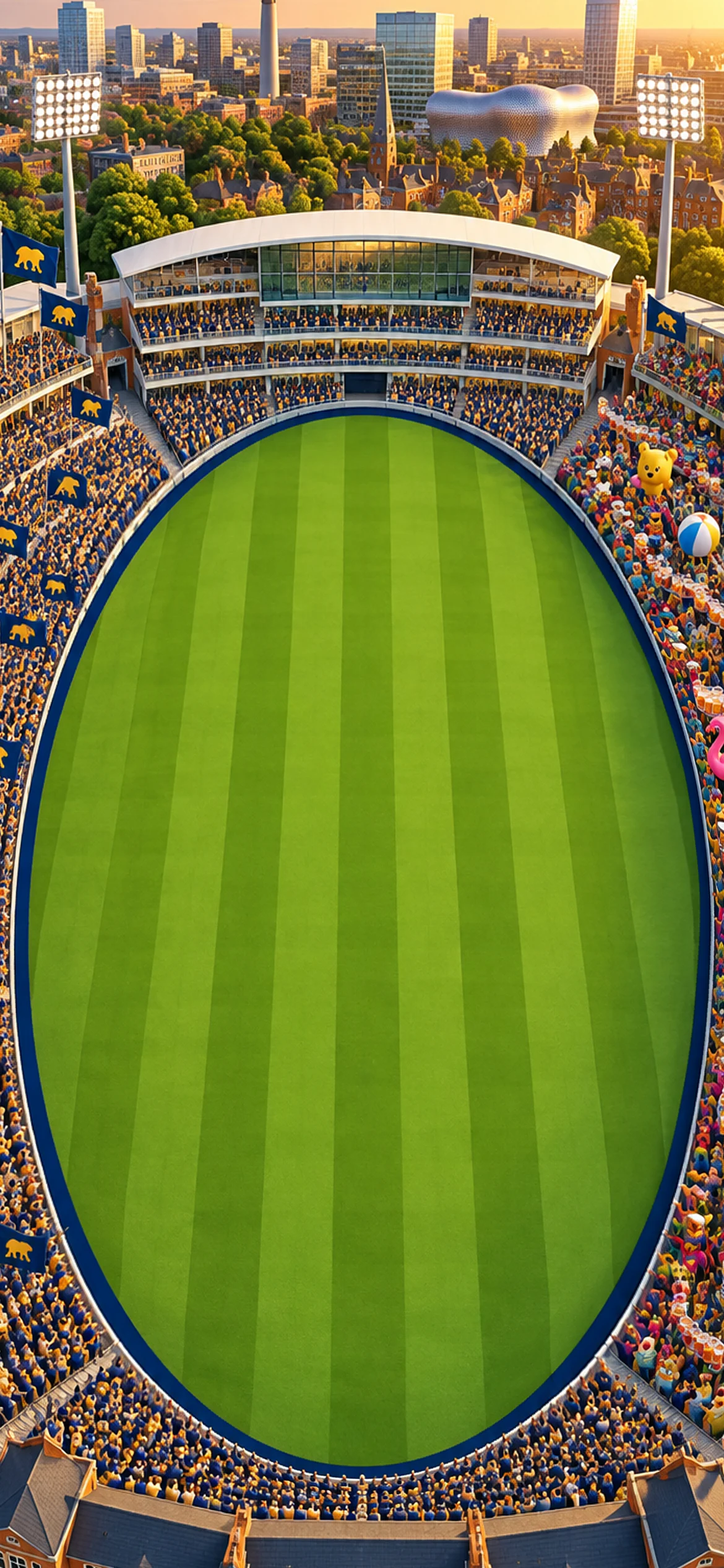
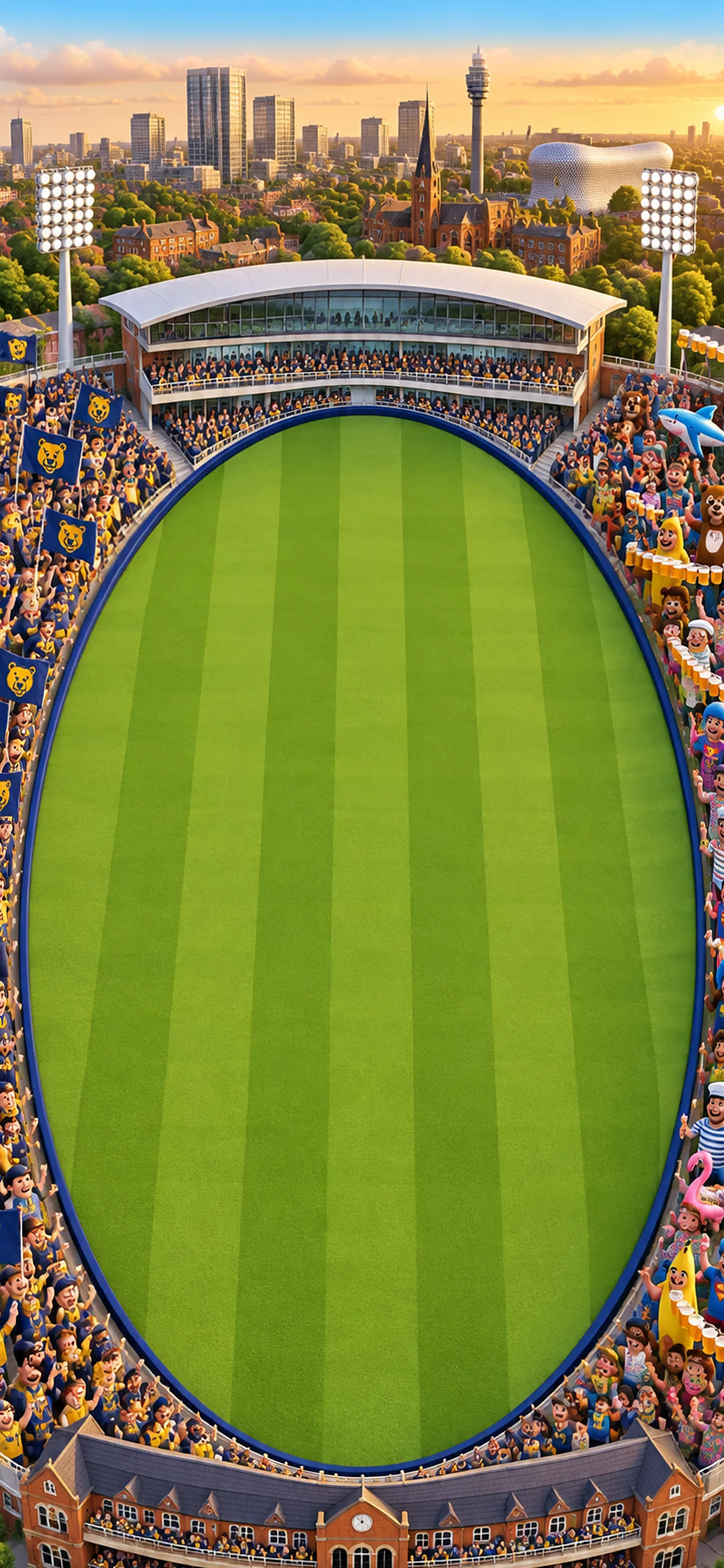
Edgbaston: new plate with matching crowd size both sides
Claude-Session: https://claude.ai/code/session_01EnXvJ6P6HcGRxjBSnYPdAU

diff --git a/art/grounds/edgbaston/build_clean.py b/art/grounds/edgbaston/build_clean.py
@@ -5,7 +5,7 @@
 import numpy as np, cv2
 from measure import measure
 W,H=1170,2532; cx,cy,rx,ry=.5*W,.6*H,.46*W,.335*H
-img=cv2.imread('raw/plate_411-191.png').astype(np.float32); ex,ey,ew,eh=np.load('ell.npy')
+img=cv2.imread('raw/plate_412-191.png').astype(np.float32); ex,ey,ew,eh=np.load('ell.npy')
 def make(sx,sy,dx=0,dy=0):
   up=cv2.resize(img,(round(img.shape[1]*sx),round(img.shape[0]*sy)),interpolation=cv2.INTER_CUBIC)
   ox=int(round(ex*sx-cx+dx)); oy=int(round(ey*sy-cy+dy))

diff --git a/art/grounds/ART_PACKAGE.md b/art/grounds/ART_PACKAGE.md
@@ -60,3 +60,4 @@ Nov 2: Joe picked v2 (408:191) for now — 'probably have to come back to it'. p
 ### 5.d Edgbaston (Nov 2) — built
 Plate Figma 411:191 (tall canvas, spec field wording + even-crowd + thin-board wording; ellipse ratio 1.53) → build_clean (stretch y/x 1.05) → snap_ring (max 30) → measure max 1.2 p90 0.4. Pavilion stand + media centre top, Birmingham skyline (telecom tower, silver-disc store), navy bear flags left, Hollies Stand fancy-dress party right, red-brick stand + leafy streets below.
 Board 411:192 red-brick piers + riveted navy iron, gold rims, dark navy panels; locked via build_locked_boards.py ('edgbaston', chaseFrom score, top bear dropped). Props 411:193 / words 411:194 cut with art/grounds/edgbaston/cut.py (magenta). SIX! pink sheen neutralised. Pitch ct 86 cb 801 wb 376. Extras: pigeons, bear flag, bear-suit fan. Scene th_edgbaston.
+Nov 2 v2 (Joe: left crowd same size): plate Figma 412:191 with 'left and right stands exactly the same size of chunky readable fans' wording; ratio 1.596 → build_clean stretch 1.008 → snap_ring max 24 → measure max 0.7. v1 kept as plate_v1.png.
